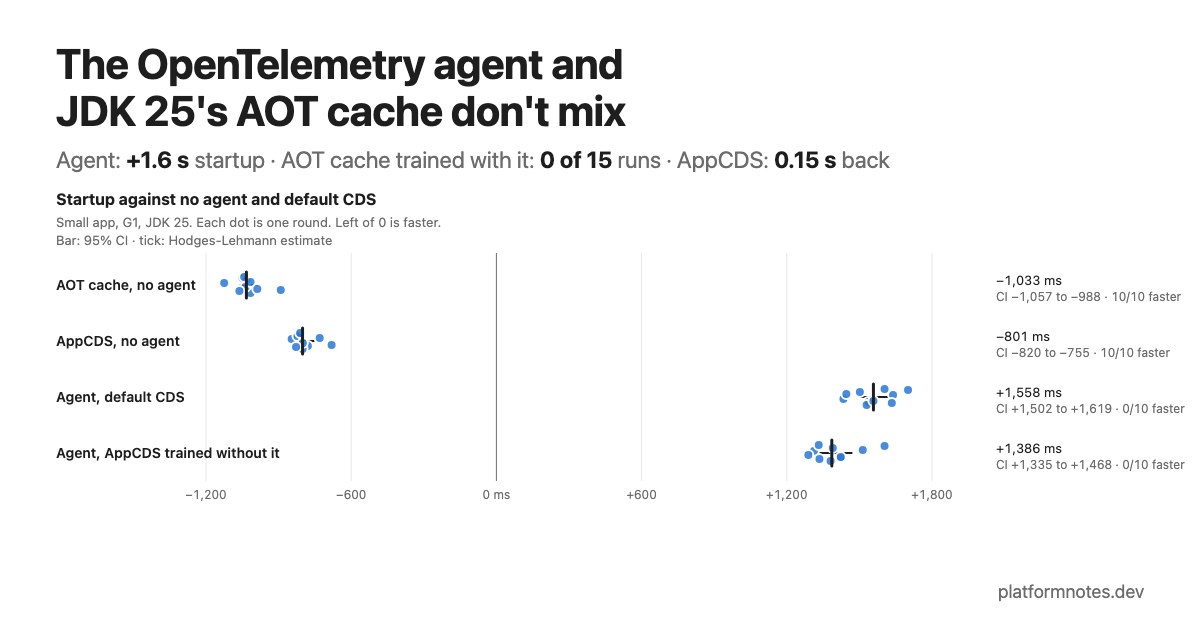
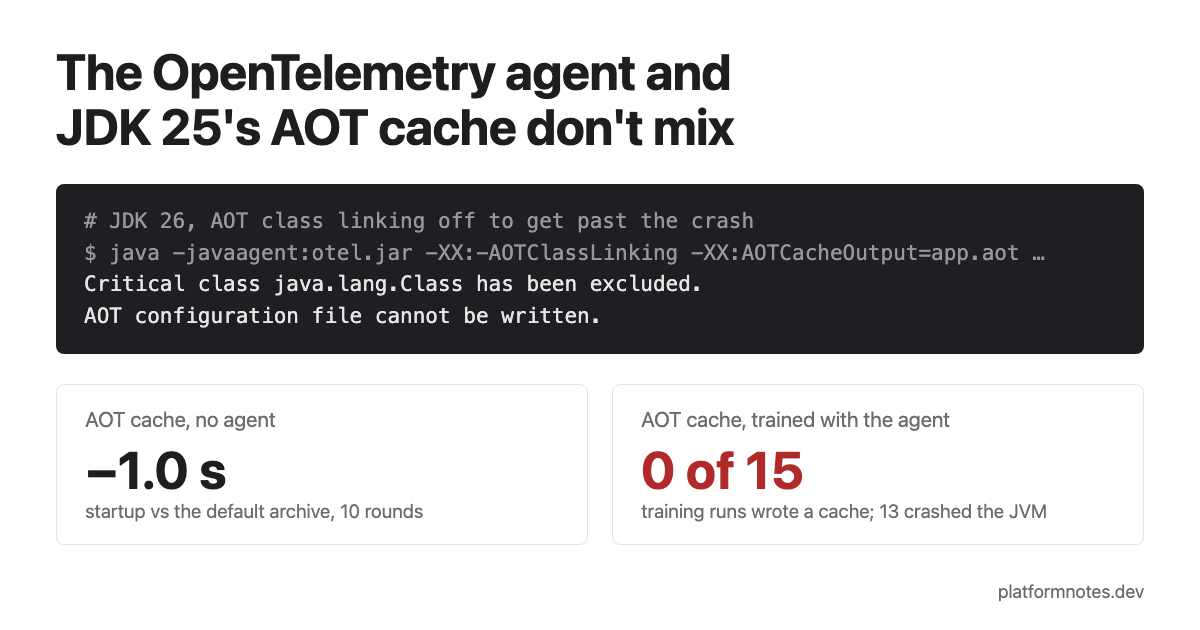
Agent post cover: the JVM's refusal and the two AOT cache numbers
The startup chart showed the agent's cost but not the post's point, that
no cache can be trained with the agent. The card now quotes the JVM's
own message (JDK 26, class linking off; review_evidence.txt 3b) next to
the AOT cache's gain without the agent and the 0 of 15 trainings with it.

diff --git a/benchmarks/aot-agents/cover.html b/benchmarks/aot-agents/cover.html
@@ -1,41 +1,58 @@
 <!doctype html>
-<!-- Social preview card (1200x630) for the OpenTelemetry agent post. make_cover.sh inlines charts.json
-     into the DATA placeholder and screenshots this page; the startup chart is drawn by the site's own code. -->
+<!-- Social preview card (1200x630) for the OpenTelemetry agent post. make_cover.sh inlines charts.json into the DATA
+     placeholder and screenshots this page. The error line is the JVM's own output (review_evidence.txt, item 3b, JDK 26
+     with AOT class linking off); 0 of 15 and 13 crashes are probe_repeat.txt's totals. -->
 <html lang="en">
 <head>
 <meta charset="utf-8">
 <title>Cover</title>
-<link rel="stylesheet" href="../../assets/css/extended/charts.css">
 <style>
   :root { --primary: rgb(30, 30, 30); --secondary: rgb(108, 108, 108); --border: rgb(230, 230, 228);
-          --theme: rgb(255, 255, 255); --code-bg: rgb(245, 245, 245); --radius: 8px; }
+          --theme: rgb(255, 255, 255); --term-bg: rgb(30, 31, 34); --term-fg: rgb(230, 230, 228);
+          --term-dim: rgb(150, 152, 158); --bad: rgb(176, 42, 42); --radius: 8px; }
   html, body { margin: 0; width: 1200px; height: 630px; overflow: hidden; background: var(--theme);
                font-family: -apple-system, BlinkMacSystemFont, "Segoe UI", Roboto, sans-serif; }
-  .card { box-sizing: border-box; width: 1200px; height: 630px; padding: 40px 56px 28px; display: flex; flex-direction: column; }
-  h1 { margin: 0; font-size: 42px; line-height: 1.12; color: var(--primary); letter-spacing: -0.5px; }
-  .key { margin: 12px 0 14px; font-size: 23px; color: var(--secondary); }
-  .key b { color: var(--primary); }
-  .chart { flex: 1; margin: 0; }
-  .site { font-size: 18px; color: var(--secondary); text-align: right; }
+  .card { box-sizing: border-box; width: 1200px; height: 630px; padding: 44px 56px 28px; display: flex; flex-direction: column; }
+  h1 { margin: 0; font-size: 50px; line-height: 1.1; color: var(--primary); letter-spacing: -0.5px; }
+  .term { margin: 30px 0 30px; padding: 22px 28px; background: var(--term-bg); border-radius: var(--radius);
+          font-family: ui-monospace, "SF Mono", Menlo, Consolas, monospace; font-size: 21px; line-height: 1.5; color: var(--term-fg); }
+  .term .cmd { color: var(--term-dim); }
+  .tiles { display: flex; gap: 24px; }
+  .tile { flex: 1; border: 1px solid var(--border); border-radius: var(--radius); padding: 22px 28px; }
+  .tile .label { font-size: 21px; color: var(--secondary); }
+  .tile .value { margin-top: 8px; font-size: 52px; font-weight: 700; color: var(--primary); }
+  .tile .value.bad { color: var(--bad); }
+  .tile .note { font-size: 19px; color: var(--secondary); }
+  .site { margin-top: auto; font-size: 18px; color: var(--secondary); text-align: right; }
 </style>
 </head>
 <body>
 <div class="card">
   <h1>The OpenTelemetry agent and<br>JDK 25's AOT cache don't mix</h1>
-  <p class="key">Agent: <b>+1.6 s</b> startup · AOT cache trained with it: <b>0 of 15</b> runs · AppCDS: <b>0.15 s</b> back</p>
-  <figure class="cp-chart chart"><div class="cp-plot" data-chart="paired-shift" data-key="startup"></div></figure>
+  <div class="term">
+    <div class="cmd"># JDK 26, AOT class linking off to get past the crash</div>
+    <div class="cmd">$ java -javaagent:otel.jar -XX:-AOTClassLinking -XX:AOTCacheOutput=app.aot …</div>
+    <div>Critical class java.lang.Class has been excluded.</div>
+    <div>AOT configuration file cannot be written.</div>
+  </div>
+  <div class="tiles">
+    <div class="tile">
+      <div class="label">AOT cache, no agent</div>
+      <div class="value" id="aot"></div>
+      <div class="note">startup vs the default archive, 10 rounds</div>
+    </div>
+    <div class="tile">
+      <div class="label">AOT cache, trained with the agent</div>
+      <div class="value bad">0 of 15</div>
+      <div class="note">training runs wrote a cache; 13 crashed the JVM</div>
+    </div>
+  </div>
   <div class="site">platformnotes.dev</div>
 </div>
-<script src="../../assets/js/vendor/d3-7.9.0.min.js"></script>
-<script src="../../assets/js/charts/common.js"></script>
-<script src="../../assets/js/charts/paired-shift.js"></script>
 <script>
   const DATA = /*DATA*/null;
-  // Four of the post's seven rows, so the chart fits the card: the two archives without the agent, the agent
-  // alone, and the agent with the AppCDS archive the post recommends.
-  const KEEP = ["AOT cache, no agent", "AppCDS, no agent", "Agent, default CDS", "Agent, AppCDS trained without it"];
-  DATA.startup.rows = DATA.startup.rows.filter((r) => KEEP.includes(r.setup));
-  CPCharts.renderAll(DATA);
+  const row = DATA.startup.rows.find((r) => r.setup === "AOT cache, no agent");
+  document.getElementById("aot").textContent = `${(row.shift.v / 1000).toFixed(1).replace("-", "−")} s`;
 </script>
 </body>
 </html>

diff --git a/content/posts/aot-agents/index.md b/content/posts/aot-agents/index.md
@@ -8,7 +8,7 @@ ShowToc: true
 cover:
   image: cover.png
   relative: true
-  alt: "Startup against no agent and default CDS: the AOT cache and AppCDS without the agent are about 1.0 and 0.8 s faster, while the OpenTelemetry agent adds 1.6 s and an AppCDS archive trained without it wins back only about 0.15 s"
+  alt: "The JVM refusing to write an AOT cache with the OpenTelemetry agent attached: Critical class java.lang.Class has been excluded. Without the agent the AOT cache saves 1.0 s of startup; with it, 0 of 15 training runs wrote a cache and 13 crashed the JVM"
   hiddenInSingle: true
   hiddenInList: true
 ai_disclosure: ai-generated
